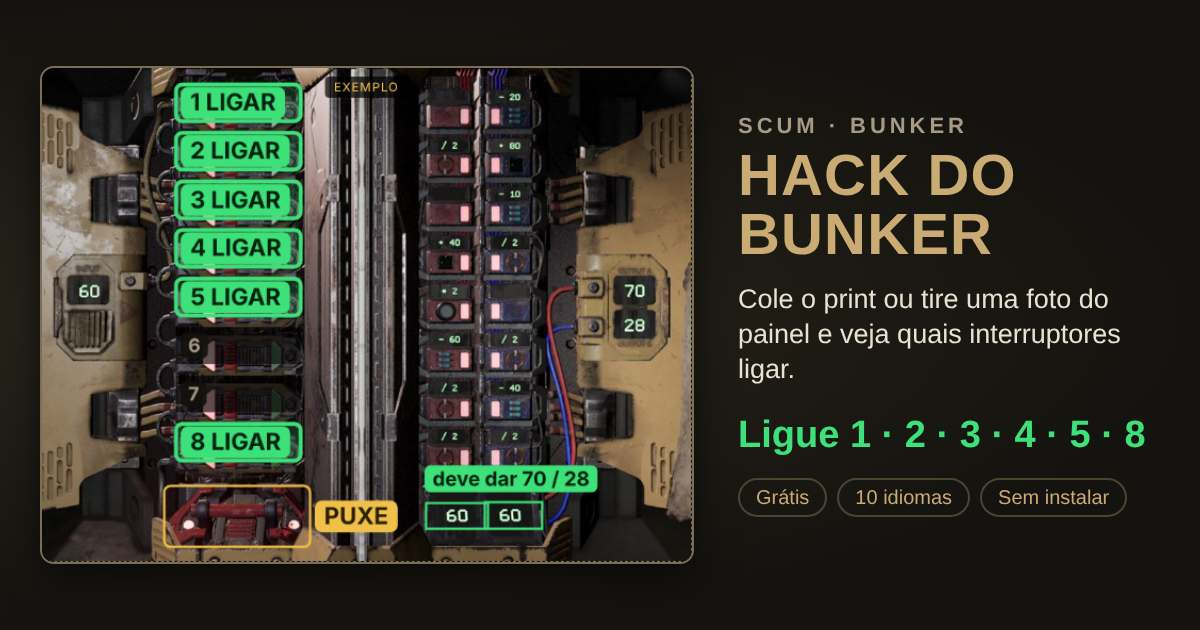
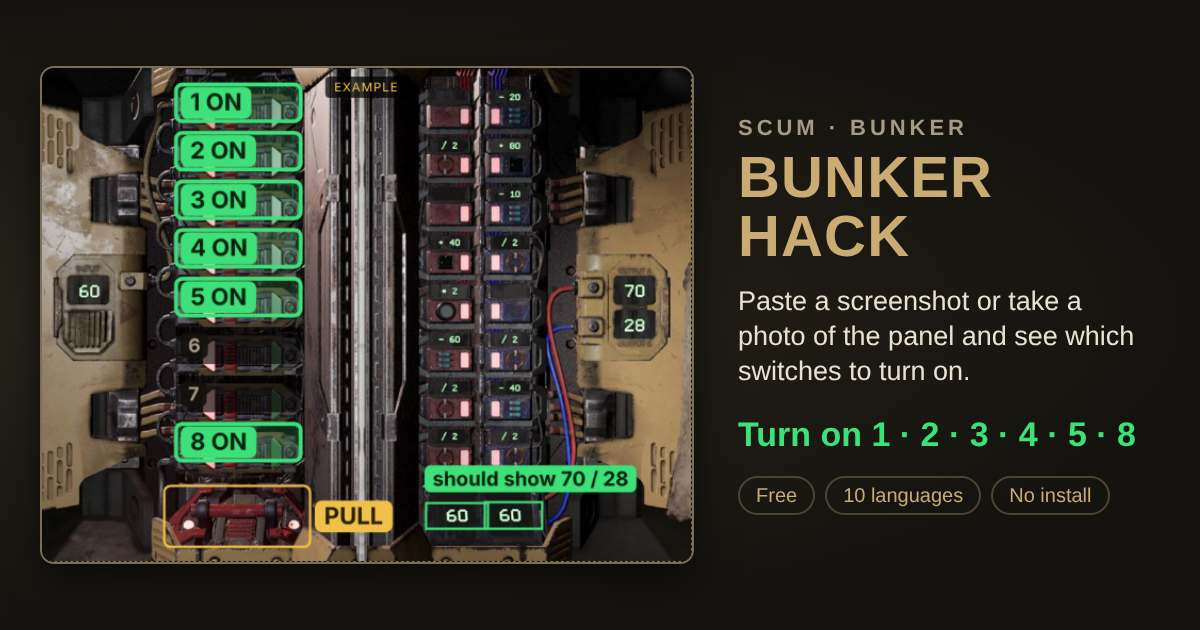
Link preview in English (og image, meta, manifest)
Default page metadata, OG image and PWA name are now English; the in-page i18n still switches to the visitor's language (Portuguese for pt browsers). Service worker cache bumped to v2.

Claude-Session: https://claude.ai/code/session_01Kdnmg7Tw3JH78Epqxuovzg

diff --git a/index.html b/index.html
@@ -1,10 +1,10 @@
 <!doctype html>
-<html lang="pt-BR">
+<html lang="en">
 <head>
 <meta charset="utf-8">
 <meta name="viewport" content="width=device-width, initial-scale=1, viewport-fit=cover">
-<title>Hack do Bunker – resolve o painel de hack do SCUM pelo print</title>
-<meta name="description" content="Tire um print do painel de hack da porta do bunker no SCUM, aperte Ctrl+V e veja quais interruptores ligar. Grátis, roda no navegador.">
+<title>Bunker Hack – solve the SCUM hacking panel from a screenshot</title>
+<meta name="description" content="Take a screenshot of the bunker door hacking panel in SCUM, press Ctrl+V and see which switches to turn on. Free, runs in your browser.">
 <meta name="theme-color" content="#15130f">
 <link rel="canonical" href="https://forestus.github.io/scum-tools/">
 <link rel="manifest" href="manifest.webmanifest">
@@ -12,16 +12,26 @@
 <link rel="icon" href="icon-192.png" sizes="192x192" type="image/png">
 <link rel="apple-touch-icon" href="apple-touch-icon.png">
 <meta name="mobile-web-app-capable" content="yes">
-<meta name="apple-mobile-web-app-title" content="Hack do Bunker">
+<meta name="apple-mobile-web-app-title" content="Bunker Hack">
 <meta property="og:type" content="website">
 <meta property="og:site_name" content="SCUM Tools">
-<meta property="og:title" content="Hack do Bunker – resolve o painel de hack do SCUM pelo print">
-<meta property="og:description" content="Cole o print ou tire uma foto do painel de hack do bunker no SCUM e veja quais interruptores ligar. Grátis, em 10 idiomas, sem instalar.">
+<meta property="og:title" content="Bunker Hack – solve the SCUM hacking panel from a screenshot">
+<meta property="og:description" content="Paste a screenshot or take a photo of the bunker hacking panel in SCUM and see which switches to turn on. Free, 10 languages, nothing to install.">
+<meta property="og:locale" content="en_US">
+<meta property="og:locale:alternate" content="pt_BR">
+<meta property="og:locale:alternate" content="es_ES">
+<meta property="og:locale:alternate" content="fr_FR">
+<meta property="og:locale:alternate" content="de_DE">
+<meta property="og:locale:alternate" content="pl_PL">
+<meta property="og:locale:alternate" content="ru_RU">
+<meta property="og:locale:alternate" content="zh_CN">
+<meta property="og:locale:alternate" content="zh_TW">
+<meta property="og:locale:alternate" content="th_TH">
 <meta property="og:url" content="https://forestus.github.io/scum-tools/">
 <meta property="og:image" content="https://forestus.github.io/scum-tools/og.jpg">
 <meta property="og:image:width" content="1200">
 <meta property="og:image:height" content="630">
-<meta property="og:image:alt" content="Painel de hack do bunker do SCUM com os interruptores 1, 2, 3, 4, 5 e 8 marcados para ligar">
+<meta property="og:image:alt" content="SCUM bunker hacking panel with switches 1, 2, 3, 4, 5 and 8 marked to turn on">
 <meta name="twitter:card" content="summary_large_image">
 <meta name="claude:viewport-fit-sides" content="cover">
 <link rel="preconnect" href="https://fonts.googleapis.com">

diff --git a/sw.js b/sw.js
@@ -1,6 +1,6 @@
 /* Hack do Bunker: funciona offline depois da primeira visita.
    A pagina e um arquivo so; busca a versao nova na rede e, sem internet, usa a guardada. */
-var CACHE = 'hack-bunker-v1';
+var CACHE = 'hack-bunker-v2';
 var ASSETS = ['./', './index.html', './manifest.webmanifest', './icon-192.png', './icon-512.png',
   './icon-maskable-512.png', './apple-touch-icon.png', './favicon-32.png'];
 
